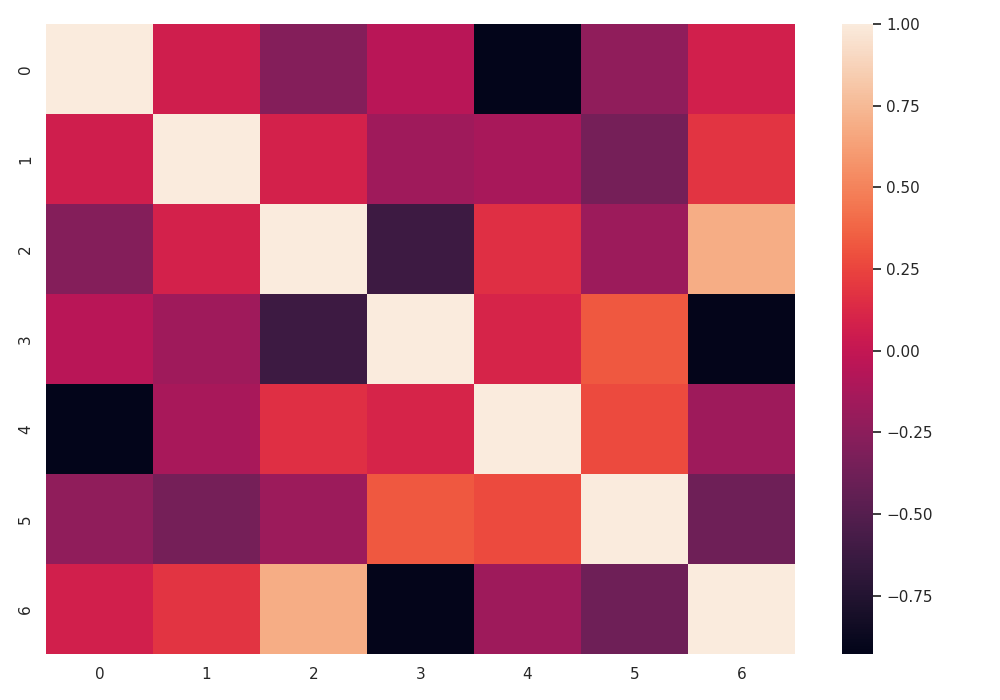
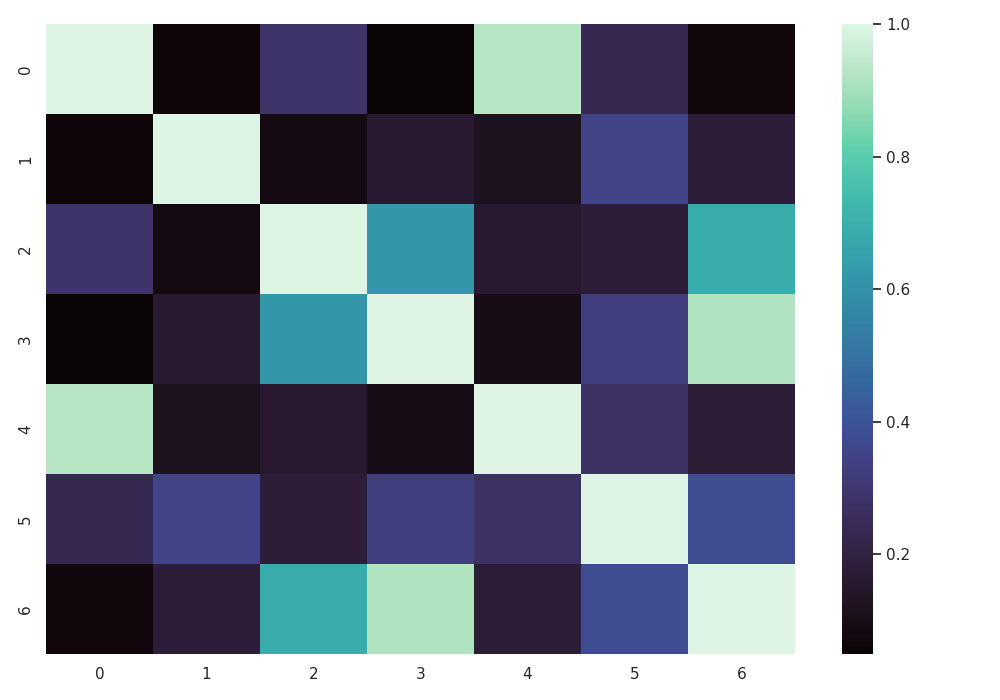
new fig

diff --git a/experiments/verify.py b/experiments/verify.py
@@ -46,7 +46,9 @@ def verify_property(mol: Chem.Mol, logdir: str):
     torsion_angles = np.array(torsion_angles)
 
     corrs = np.corrcoef(torsion_angles.T) # want correlation between angles *not* conformers
-    sns.heatmap(corrs)
+    corrs[np.abs(corrs) < 0.01] = 0
+    corrs = np.abs(corrs)
+    sns.heatmap(corrs, cmap="mako")
     plt.savefig(f"figs/{logdir}/corrs_heatmap.png")
     plt.clf()
 
